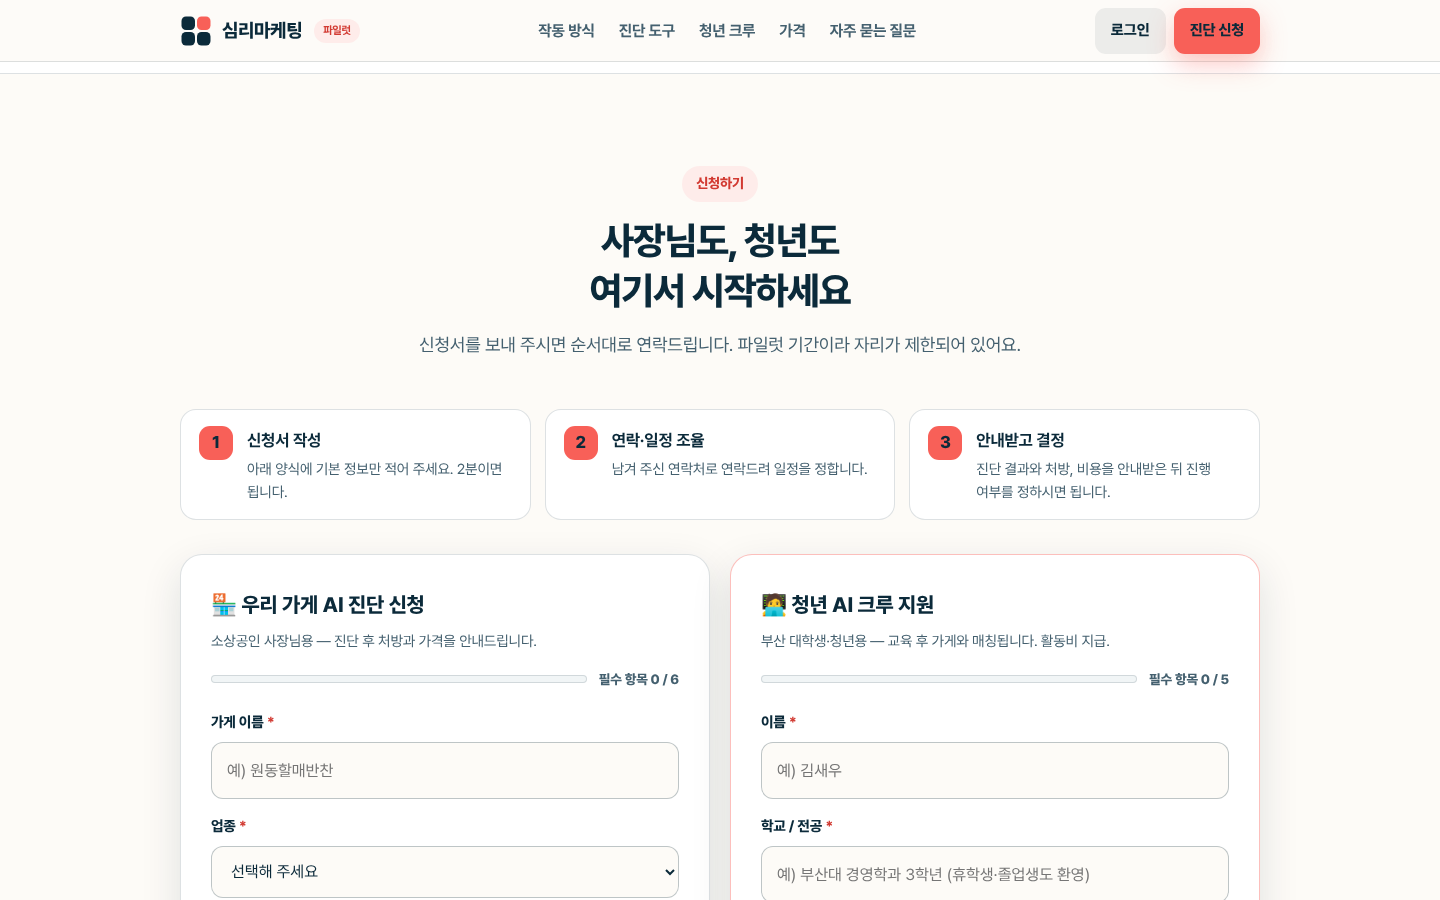
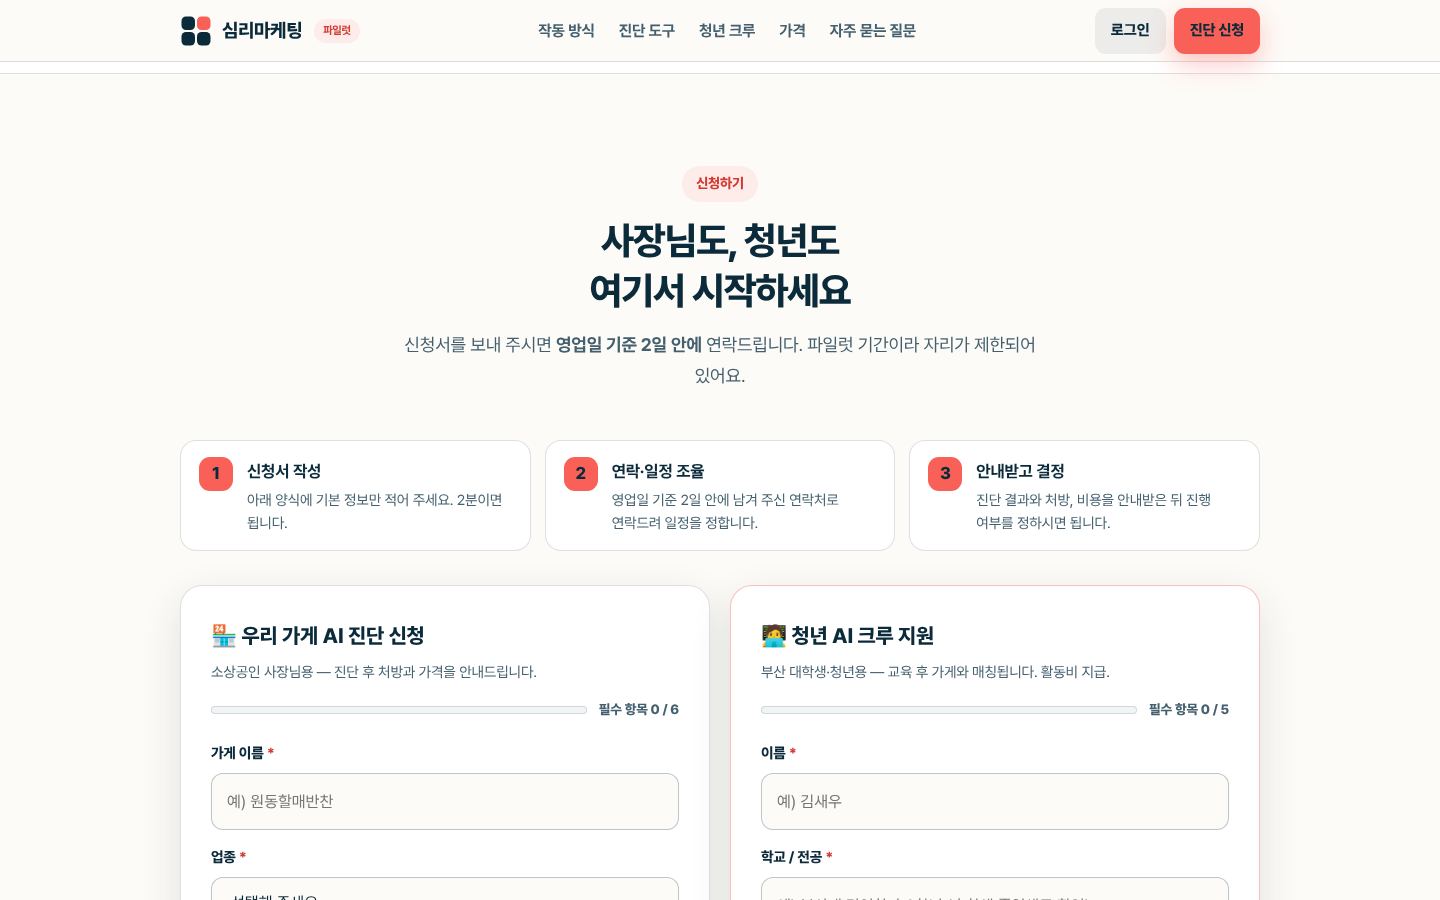
위임받은 결정 사항 반영 및 설문 수치 설명 정정
설문 수치 설명 정정 (보도 내용 확인)
- 83.3%: 디지털 활용 수준이 기초·입문 단계라고 답한 비율
- 3.2%: 최근 3년간 정부 디지털·AI 지원사업 참여율
- 조사명 표기 수정, "10곳 중 8곳은 이미 사용" 문장 추가

결정해 반영한 것
- 응답 시간: 영업일 기준 2일 안에 연락 (config의 RESPONSE_PROMISE)
- 가격: 부가세 포함, 권장 기간 3개월
- 단계 일정: 진단 1주차, 처방 2주차, 실행 3~10주차, 자립 11~12주차
- 해지: 언제든 가능, 위약금 없음 / 환불: 시작 전 전액, 시작 후 일할 계산
- 현장 이야기: 동의받은 파일이 있을 때만 섹션 표시 (없으면 숨김)
- 모집 현황 숫자와 크루 활동비 금액은 정하지 않음

Claude-Session: https://claude.ai/code/session_01TggG7FeY7yC1RzckwmUxt5

diff --git a/index.html b/index.html
@@ -111,21 +111,22 @@
       <div class="section-head reveal">
         <span class="eyebrow">왜 안 됐을까요</span>
         <h2>도구는 이미 있었습니다.<br />쓰지 못했을 뿐입니다.</h2>
+        <p class="lead">소상공인 10곳 중 8곳은 이미 디지털·AI 기술을 쓰고 있습니다. 그런데 —</p>
       </div>
       <div class="stats">
         <div class="stat-big reveal">
           <b>83.3<span style="font-size:0.5em">%</span></b>
-          <p>디지털·AI 전환이 필요하다고 답한 소상공인</p>
+          <p>쓰고는 있지만, 활용 수준은 <b>‘기초·입문 단계’</b>라고 답한 소상공인</p>
         </div>
         <div class="stat-big coral reveal">
           <b>3.2<span style="font-size:0.5em">%</span></b>
-          <p>하지만 AI를 실제로 활용하고 있는 곳</p>
+          <p>최근 3년간 정부의 디지털·AI 지원사업에 <b>참여해 본</b> 소상공인</p>
         </div>
       </div>
-      <p class="stat-src">출처: 중소기업중앙회 「소상공인 디지털·AI 전환(DX·AX) 현황 설문」, 2026년 6월, 500개사</p>
+      <p class="stat-src">출처: 중소기업중앙회 「소상공인 DX·AX 현황 및 정책 수요 설문조사」, 2026년 6월 발표, 500개사</p>
       <p class="problem-quote reveal">
         구독만 해 둔 ChatGPT, 만들다 만 네이버 플레이스, 열어만 둔 인스타그램.<br />
-        부족한 건 사장님의 의지가 아니라, <b>우리 가게에 맞는 사용법을 알려줄 사람</b>이었습니다.
+        도구도 지원사업도 있었지만 가게까지 닿지 않았습니다. 부족한 건 사장님의 의지가 아니라, <b>우리 가게에 맞는 사용법을 알려줄 사람</b>이었습니다.
       </p>
     </div>
   </section>
@@ -140,22 +141,23 @@
       </div>
       <div class="steps">
         <div class="step reveal">
-          <h3>진단</h3>
+          <h3>진단 <small>1주차</small></h3>
           <p>크루가 가게를 직접 봅니다. 업종, 손님, 그리고 이미 구독 중인 툴(AI 포함)까지 점검합니다.</p>
         </div>
         <div class="step reveal">
-          <h3>처방</h3>
+          <h3>처방 <small>2주차</small></h3>
           <p>새로 사라고 하지 않습니다. 이미 갖고 있는 툴부터, 우리 가게에 맞는 우선순위 1~3개를 정합니다.</p>
         </div>
         <div class="step reveal">
-          <h3>실행</h3>
+          <h3>실행 <small>3~10주차</small></h3>
           <p>전담 청년 크루가 옆에서 같이 세팅하고 돌려 봅니다. 말로만 하는 컨설팅이 아닙니다.</p>
         </div>
         <div class="step reveal">
-          <h3>자립 <small>최종 목표</small></h3>
+          <h3>자립 <small>11~12주차</small></h3>
           <p>사장님이 혼자서도 쓸 수 있을 때까지. 크루가 더 이상 필요 없어지는 순간이 성공입니다.</p>
         </div>
       </div>
+      <p class="steps-note">※ 파일럿 기준 일정입니다(약 3개월). 가게 상황에 따라 조정합니다.</p>
     </div>
   </section>
 
@@ -270,7 +272,7 @@
         <div class="price-card reveal">
           <div class="pc-label">파일럿 한정 가격</div>
           <div class="pc-price">월 29만 원<small> / 가게 1곳</small></div>
-          <div class="pc-vat">부가세 표기(포함/별도)는 확정 전입니다 — 상담 시 안내드립니다.</div>
+          <div class="pc-vat">부가세 포함 · 표시된 금액이 최종 결제 금액입니다.</div>
           <ul>
             <li>현장 방문 진단 &amp; 진단 리포트</li>
             <li>우리 가게 맞춤 처방 (이미 쓰는 툴 우선)</li>
@@ -278,8 +280,9 @@
             <li>사장님 자립 교육 — 떠나는 게 목표</li>
           </ul>
           <dl class="pc-meta">
-            <div><dt>계약</dt><dd>월 단위</dd></div>
-            <div><dt>해지·환불</dt><dd>기준을 계약서에 명시하고, 상담 때 양식을 먼저 보여드립니다</dd></div>
+            <div><dt>권장 기간</dt><dd>3개월 (월 단위로 이어가거나 멈출 수 있습니다)</dd></div>
+            <div><dt>해지</dt><dd>언제든 요청할 수 있고 위약금이 없습니다</dd></div>
+            <div><dt>환불</dt><dd>시작 전에는 전액, 시작 후에는 진행하지 않은 기간만큼 일할 계산</dd></div>
           </dl>
           <a class="btn btn-coral btn-block" href="#apply-store">진단부터 신청하기</a>
         </div>
@@ -302,7 +305,7 @@
   </section>
 
   <!-- ===================== 8. 현장 이야기 ===================== -->
-  <section class="section dark" id="field">
+  <section class="section dark" id="field" hidden>
     <div class="container">
       <div class="section-head reveal">
         <span class="eyebrow">현장 이야기</span>
@@ -311,15 +314,15 @@
       </div>
       <div class="field-grid">
         <figure class="photo" data-media>
-          <img src="assets/field/busan-01.jpg" alt="부산 현장 방문 사진 1" loading="lazy" />
+          <img src="assets/field/busan-01.jpg" alt="부산 현장 방문 사진 1" />
           <figcaption class="ph-pending">📷 사진 준비 중<br />동의받은 사진만 게시합니다</figcaption>
         </figure>
         <figure class="photo" data-media>
-          <img src="assets/field/busan-02.jpg" alt="부산 현장 방문 사진 2" loading="lazy" />
+          <img src="assets/field/busan-02.jpg" alt="부산 현장 방문 사진 2" />
           <figcaption class="ph-pending">📷 사진 준비 중<br />동의받은 사진만 게시합니다</figcaption>
         </figure>
         <figure class="photo" data-media>
-          <img src="assets/field/wondong-01.jpg" alt="원동마을 현장 사진" loading="lazy" />
+          <img src="assets/field/wondong-01.jpg" alt="원동마을 현장 사진" />
           <figcaption class="ph-pending">📷 사진 준비 중<br />동의받은 사진만 게시합니다</figcaption>
         </figure>
         <div class="video-card" data-media-video>
@@ -380,7 +383,7 @@
         </details>
         <details>
           <summary>계약하면 오래 묶이나요? 해지는요?</summary>
-          <div class="faq-body">파일럿은 <b>월 단위 계약</b>으로 운영합니다. 해지 절차와 환불 기준은 계약서에 명시하며, 상담 시 계약서 양식을 먼저 보여드립니다. 장기 약정을 강요하지 않습니다.</div>
+          <div class="faq-body">아니요. 파일럿은 <b>월 단위 계약</b>이고 장기 약정이 없습니다. <b>해지는 언제든 요청할 수 있고 위약금이 없습니다.</b> 환불은 서비스 시작 전에는 전액, 시작 후에는 진행하지 않은 기간만큼 일할 계산해 돌려드립니다. 같은 내용을 계약서에 적고, 상담 때 계약서 양식을 먼저 보여드립니다.</div>
         </details>
         <details>
           <summary>신청서에 적은 개인정보는 어떻게 되나요?</summary>
@@ -396,11 +399,11 @@
       <div class="section-head center reveal">
         <span class="eyebrow">신청하기</span>
         <h2>사장님도, 청년도<br />여기서 시작하세요</h2>
-        <p class="lead">신청서를 보내 주시면 순서대로 연락드립니다. 파일럿 기간이라 자리가 제한되어 있어요.</p>
+        <p class="lead">신청서를 보내 주시면 <b data-response-promise>영업일 기준 2일 안에</b> 연락드립니다. 파일럿 기간이라 자리가 제한되어 있어요.</p>
       </div>
       <ol class="flow reveal" aria-label="신청 후 진행 과정">
         <li><span class="flow-n">1</span><div><b>신청서 작성</b><p>아래 양식에 기본 정보만 적어 주세요. 2분이면 됩니다.</p></div></li>
-        <li><span class="flow-n">2</span><div><b>연락·일정 조율</b><p>남겨 주신 연락처로 연락드려 일정을 정합니다.</p></div></li>
+        <li><span class="flow-n">2</span><div><b>연락·일정 조율</b><p><span data-response-promise>영업일 기준 2일 안에</span> 남겨 주신 연락처로 연락드려 일정을 정합니다.</p></div></li>
         <li><span class="flow-n">3</span><div><b>안내받고 결정</b><p>진단 결과와 처방, 비용을 안내받은 뒤 진행 여부를 정하시면 됩니다.</p></div></li>
       </ol>
       <div class="apply-grid">

diff --git a/js/main.js b/js/main.js
@@ -36,24 +36,28 @@
   }, { threshold: 0.1 });
   $$('.reveal').forEach((el) => io.observe(el));
 
-  /* ---------------- 현장 미디어 폴백 (파일 없으면 '준비 중' 표시) ---------------- */
-  $$('[data-media] img').forEach((img) => {
-    img.addEventListener('error', () => img.closest('[data-media]').classList.add('pending'));
-    if (img.complete && img.naturalWidth === 0) img.closest('[data-media]').classList.add('pending');
+  /* ---------------- 현장 이야기: 동의받은 사진·영상 파일이 실제로 있을 때만 표시 ----------------
+     assets/field/ 에 파일을 넣으면 섹션이 자동으로 나타나고, 파일이 없는 칸은 숨긴다. */
+  const fieldSec = $('#field');
+  const showField = () => { fieldSec.hidden = false; };
+  $$('[data-media]').forEach((tile) => {
+    const img = $('img', tile);
+    tile.classList.add('pending');
+    const ok = () => { tile.classList.remove('pending'); showField(); };
+    if (img.complete && img.naturalWidth > 0) ok();
+    img.addEventListener('load', ok);
   });
-  $$('[data-media-video] video').forEach((v) => {
-    const card = v.closest('[data-media-video]');
-    const markPending = () => card.classList.add('pending');
-    v.addEventListener('error', markPending);
-    v.addEventListener('stalled', markPending);
-    // 소스 로드 시도 후에도 데이터가 없으면(파일 없음) '준비 중'으로 전환
-    setTimeout(() => {
-      if (v.networkState === 3 /* NO_SOURCE */ || (v.readyState === 0 && !card.classList.contains('pending'))) markPending();
-    }, 2500);
+  $$('[data-media-video]').forEach((card) => {
+    const v = $('video', card);
+    card.classList.add('pending');
+    v.addEventListener('loadedmetadata', () => { card.classList.remove('pending'); showField(); });
     try { v.load(); } catch (e) { /* ignore */ }
   });
 
-  /* ---------------- 푸터 연락처 (이메일 설정 시 표기) ---------------- */
+  /* ---------------- 응답 시간 약속 · 푸터 연락처 ---------------- */
+  if (CFG.RESPONSE_PROMISE) {
+    $$('[data-response-promise]').forEach((el) => { el.textContent = CFG.RESPONSE_PROMISE; });
+  }
   if (CONTACT) {
     $('#footerContact').innerHTML = '<a href="mailto:' + CONTACT + '" style="color:#fff;text-decoration:underline;">' + CONTACT + '</a>';
   }
@@ -305,7 +309,7 @@
     doneEl.innerHTML = `
       <div class="fd-title">${cfg.doneTitle}</div>
       <p>${mailReady
-        ? '아래 내용으로 메일 앱이 열립니다. 전송 버튼만 누르면 접수 완료! (안 열리면 복사해서 보내 주세요)'
+        ? '아래 내용으로 메일 앱이 열립니다. 전송 버튼만 누르면 접수 완료! ' + (CFG.RESPONSE_PROMISE || '영업일 기준 2일 안에') + ' 연락드립니다. (안 열리면 복사해서 보내 주세요)'
         : '접수 이메일 주소를 설정하기 전이라, 아래 내용을 <b>복사해서 문자/카카오톡으로</b> 보내 주시면 접수됩니다.'}</p>
       <textarea readonly aria-label="제출 내용">${text.replace(/</g, '&lt;')}</textarea>
       <div class="fd-actions">

diff --git a/css/landing.css b/css/landing.css
@@ -477,6 +477,16 @@ input, select, textarea { font: inherit; color: inherit; }
   .who-card { padding: 30px 28px; }
 }
 
+/* ---------------- 결정 사항 반영: 수치 설명 강조 · 단계 일정 안내 · 현장 미디어 ---------------- */
+[hidden] { display: none !important; }
+.stat-big p b, .stat-big.coral p b {
+  display: inline; font-size: inherit; letter-spacing: inherit; line-height: inherit;
+  color: #fff; font-weight: 700;
+}
+.steps-note { margin-top: 16px; font-size: 14px; color: var(--muted); }
+/* 현장 이야기: 파일이 없는 칸은 숨김 (섹션은 파일이 하나라도 있을 때만 표시) */
+.photo.pending, .video-card.pending { display: none; }
+
 /* ---------------- 크루 여정 ---------------- */
 .journey { list-style: none; margin-top: 18px; display: grid; gap: 8px; counter-reset: j; }
 .journey li {

diff --git a/js/config.js b/js/config.js
@@ -29,6 +29,9 @@ window.PM_CONFIG = {
   // 더미 상태에서는 신청 내용이 "복사 모드"로 동작합니다(복사해서 문자·카톡으로 전달).
   CONTACT_EMAIL: 'DUMMY_CONTACT_EMAIL_REPLACE_ME@example.com',
 
+  // [응답 시간 약속] 신청 양식 안내 문구에 쓰입니다. 실제로 지킬 수 있는 시간으로 유지하세요.
+  RESPONSE_PROMISE: '영업일 기준 2일 안에',
+
   APP_NAME: '심리마케팅',
   COMPANY: '고래싸움에 성장하는 새우들',
   CEO: '홍성현',

diff --git a/CHANGES-v3.md b/CHANGES-v3.md
@@ -17,8 +17,8 @@
 4. 업종별 처방 예시 — 식당·농자재·마을기업("예시" 명시)
 5. 진단 도구 — 기존 AI 기능 4종을 크루 체험 섹션으로 이동 + 30초 맛보기
 6. 청년 AI 크루 — 교육·활동비·포트폴리오(포트폴리오는 "파일럿 후 공개")
-7. 가격 — 월 29만원(파일럿) + 단일 채널 대행 비교표. 부가세 표기 [확정 전]로 명시
-8. 현장 이야기 — 사진 3 + 할머니 인터뷰 영상 자리(동의 전까지 "준비 중" 표시)
+7. 가격 — 월 29만원(파일럿, 부가세 포함) + 단일 채널 대행 비교표 + 기간·해지·환불 안내
+8. 현장 이야기 — 사진 3 + 할머니 인터뷰 영상 자리(동의받은 파일이 있을 때만 섹션 표시)
 9. 함께하는 사람들 — 청년 약 140명 / 체험단 700명+ ("연결된 채널"로 표현)
 10. FAQ — 대행사 차이·체험단 대가 표기·계약/해지·개인정보
 11. 신청 양식 2종 — 가게용·청년용 (개인정보 수집·이용 동의 포함)
@@ -31,12 +31,10 @@
 - 접근성: 본문 17px, 터치 타겟 48px+, 색 대비 AA, 키보드 포커스 표시, 본문 바로가기 링크
 - 배포 안 함 — 작업 브랜치 커밋만 (gh-pages 등 손대지 않음)
 
-## 확인이 필요한 항목(사용자 입력 대기)
+## 파일과 키 (넣으면 자동 반영)
 - 현장 사진/할머니 인터뷰 영상 파일 → `assets/field/`에 업로드 (동의 완료분만)
   - busan-01.jpg / busan-02.jpg / wondong-01.jpg / wondong-interview.mp4
-- 부가세 표기(포함/별도) 확정
 - 신청 접수 이메일 → `js/config.js`의 `CONTACT_EMAIL` 교체 (현재 더미 = 복사 모드)
-- 연락처/채널 인원수 근거, 크루 활동비 금액, 계약서 양식
 - 소셜 로그인 실연동 시 키 교체(SETUP_GUIDE.md)
 
 ## 벤치마킹 반영 (2026-11-10 추가)
@@ -53,8 +51,32 @@
 10. 진단 도구가 만드는 문구의 임의 숫자(○○명, ○○원 등)를 빈칸으로 바꾸고 "실제 숫자를 넣으세요" 안내 추가
 11. 현장 이야기의 인터뷰 인용문 삭제 (실제 발언이 확인되지 않아 제거)
 
-## 확인이 필요한 문구 (작성자가 임의로 쓴 것)
-- 문제 섹션 수치 설명: 83.3% "디지털·AI 전환이 필요하다고 답한 소상공인", 3.2% "AI를 실제로 활용하고 있는 곳"
-- 개인정보 보관 기간 "최대 6개월", 계약 "월 단위", 수치 기준일 "2026년 11월"
-- 신청 후 과정 3단계의 내용(연락 → 일정 → 진단 결과·비용 안내 후 결정)
-- 크루 여정 5단계의 내용, "청년 약 140명" 채널 설명(부산 지역 대학생·청년 커뮤니티)
+## 결정 사항 (2026-11-11, 대표 위임으로 작성자가 정함)
+홈페이지에 그대로 적혀 고객과의 약속이 되는 내용입니다. 바꾸려면 아래 위치를 고치면 됩니다.
+
+| 항목 | 정한 내용 | 고치는 곳 |
+|---|---|---|
+| 응답 시간 | 신청 후 영업일 기준 2일 안에 연락 | `js/config.js`의 `RESPONSE_PROMISE` |
+| 부가세 | 월 29만 원은 부가세 포함, 표시 금액이 최종 결제 금액 | `index.html` 가격 섹션 |
+| 권장 기간 | 3개월 (월 단위로 이어가거나 멈출 수 있음) | `index.html` 가격 섹션 |
+| 단계 일정 | 진단 1주차 · 처방 2주차 · 실행 3~10주차 · 자립 11~12주차 (파일럿 기준, 가게마다 조정) | `index.html` 작동 방식 섹션 |
+| 해지 | 언제든 요청 가능, 위약금 없음 | `index.html` 가격 섹션, FAQ |
+| 환불 | 시작 전 전액, 시작 후 진행하지 않은 기간만큼 일할 계산 | `index.html` 가격 섹션, FAQ |
+| 개인정보 보관 | 목적 달성 후 지체 없이 파기, 최대 6개월 | `index.html` 신청 양식 동의문, FAQ |
+| 수치 기준일 | 함께하는 사람들 수치는 2026년 11월 기준 | `index.html` 함께하는 사람들 섹션 |
+| 모집 현황 숫자 | 표시하지 않음 (실제 값이 필요한 사실이라 정할 수 없음) | — |
+| 현장 이야기 | 동의받은 파일이 `assets/field/`에 있을 때만 섹션 표시, 없으면 숨김 | 파일을 넣으면 자동 표시 |
+| 크루 활동비 금액 | 정하지 않음 ("모집 공고에서 안내" 유지) | — |
+
+## 설문 수치 설명 정정 (2026-11-11)
+처음에 붙였던 설명이 틀려서 보도 내용을 찾아 고쳤습니다.
+- 83.3%: 디지털 기술 활용 수준이 "기초·입문 단계"라고 답한 비율 (기초 30.5% + 입문 52.8%)
+- 3.2%: 최근 3년간 정부 디지털·AI 지원사업에 참여한 비율
+- 함께 쓴 "10곳 중 8곳은 이미 사용": 같은 조사의 디지털·AI 기술 활용률 80.0%
+- 조사명: 중소기업중앙회 「소상공인 DX·AX 현황 및 정책 수요 설문조사」 (2026년 6월 발표, 500개사)
+- 근거는 언론 보도이며 보도자료 원문은 열람하지 못했습니다. 게시 전 원문과 대조를 권합니다.
+
+## 아직 대표만 채울 수 있는 것
+- 신청 접수 이메일과 연락처 (`js/config.js`의 `CONTACT_EMAIL`)
+- 동의받은 현장 사진·영상 파일 (`assets/field/`)
+- "청년 약 140명" 채널 설명(부산 지역 대학생·청년 커뮤니티)이 사실과 맞는지

diff --git a/benchmark/report.md b/benchmark/report.md
@@ -159,10 +159,13 @@
 | 9 | 진단 도구(대시보드)도 남색·산호색으로 통일 | 진단 도구 | (브랜드 일관성) |
 | 10 | 진단 도구가 만드는 문구의 임의 숫자를 ○○ 빈칸으로 바꾸고 "실제 숫자를 넣으세요" 안내 추가 | 진단 도구 | 크몽 상단 안내 사항(리뷰·대가 표기 규정 고지) |
 
-## 반영하지 않고 남겨 둔 제안 (결정이 필요한 것)
+## 추가로 결정해 반영한 것 (2026-11-11, 대표 위임)
 
-- **응답 시간 약속**: 세 곳(크몽 1시간, 숨고 48시간, 디너의여왕 24시간)이 모두 응답 시간을 약속함. 우리도 "신청 후 ○일 안에 연락"을 넣으면 좋지만, 실제로 지킬 수 있는 시간을 정해 주셔야 함.
-- **단계별 기간**: 디너의여왕과 서울시 프로젝트는 단계마다 기간을 밝힘. 진단·처방·실행·자립 각각의 기간을 정해 주시면 타임라인에 넣을 수 있음.
-- **모집 현황 숫자**: 리뷰노트처럼 "파일럿 가게 n곳 중 n곳 모집" 같은 현황을 보여 줄 수 있음. 실제 숫자가 필요함.
-- **환불 조건**: 크몽 상품들은 환불 기준을 상품 화면에 적어 둠. 계약서의 해지·환불 기준이 정해지면 가격 박스에 그대로 적는 것을 권함.
-- **크루 소속감 장치**: 위촉장·명찰·활동 가이드. 운영 계획이 있으면 크루 섹션에 적을 수 있음.
+- **응답 시간 약속**: "영업일 기준 2일 안에 연락"으로 정해 신청 섹션에 넣음. (참고: 크몽 1시간, 숨고 48시간, 디너의여왕 24시간)
+- **단계별 기간**: 진단 1주차 · 처방 2주차 · 실행 3~10주차 · 자립 11~12주차, 파일럿 기준 약 3개월로 정해 작동 방식 섹션에 넣음.
+- **해지·환불 조건**: 해지는 언제든 가능하고 위약금 없음, 환불은 시작 전 전액·시작 후 일할 계산으로 정해 가격 박스와 FAQ에 넣음.
+
+## 반영하지 않은 것
+
+- **모집 현황 숫자**: 리뷰노트처럼 "n곳 중 n곳 모집"을 보여 주는 방식. 실제 값이 필요한 사실이라 넣지 않음.
+- **크루 소속감 장치**: 위촉장·명찰·활동 가이드. 운영 계획이 정해지면 크루 섹션에 적을 수 있음.
